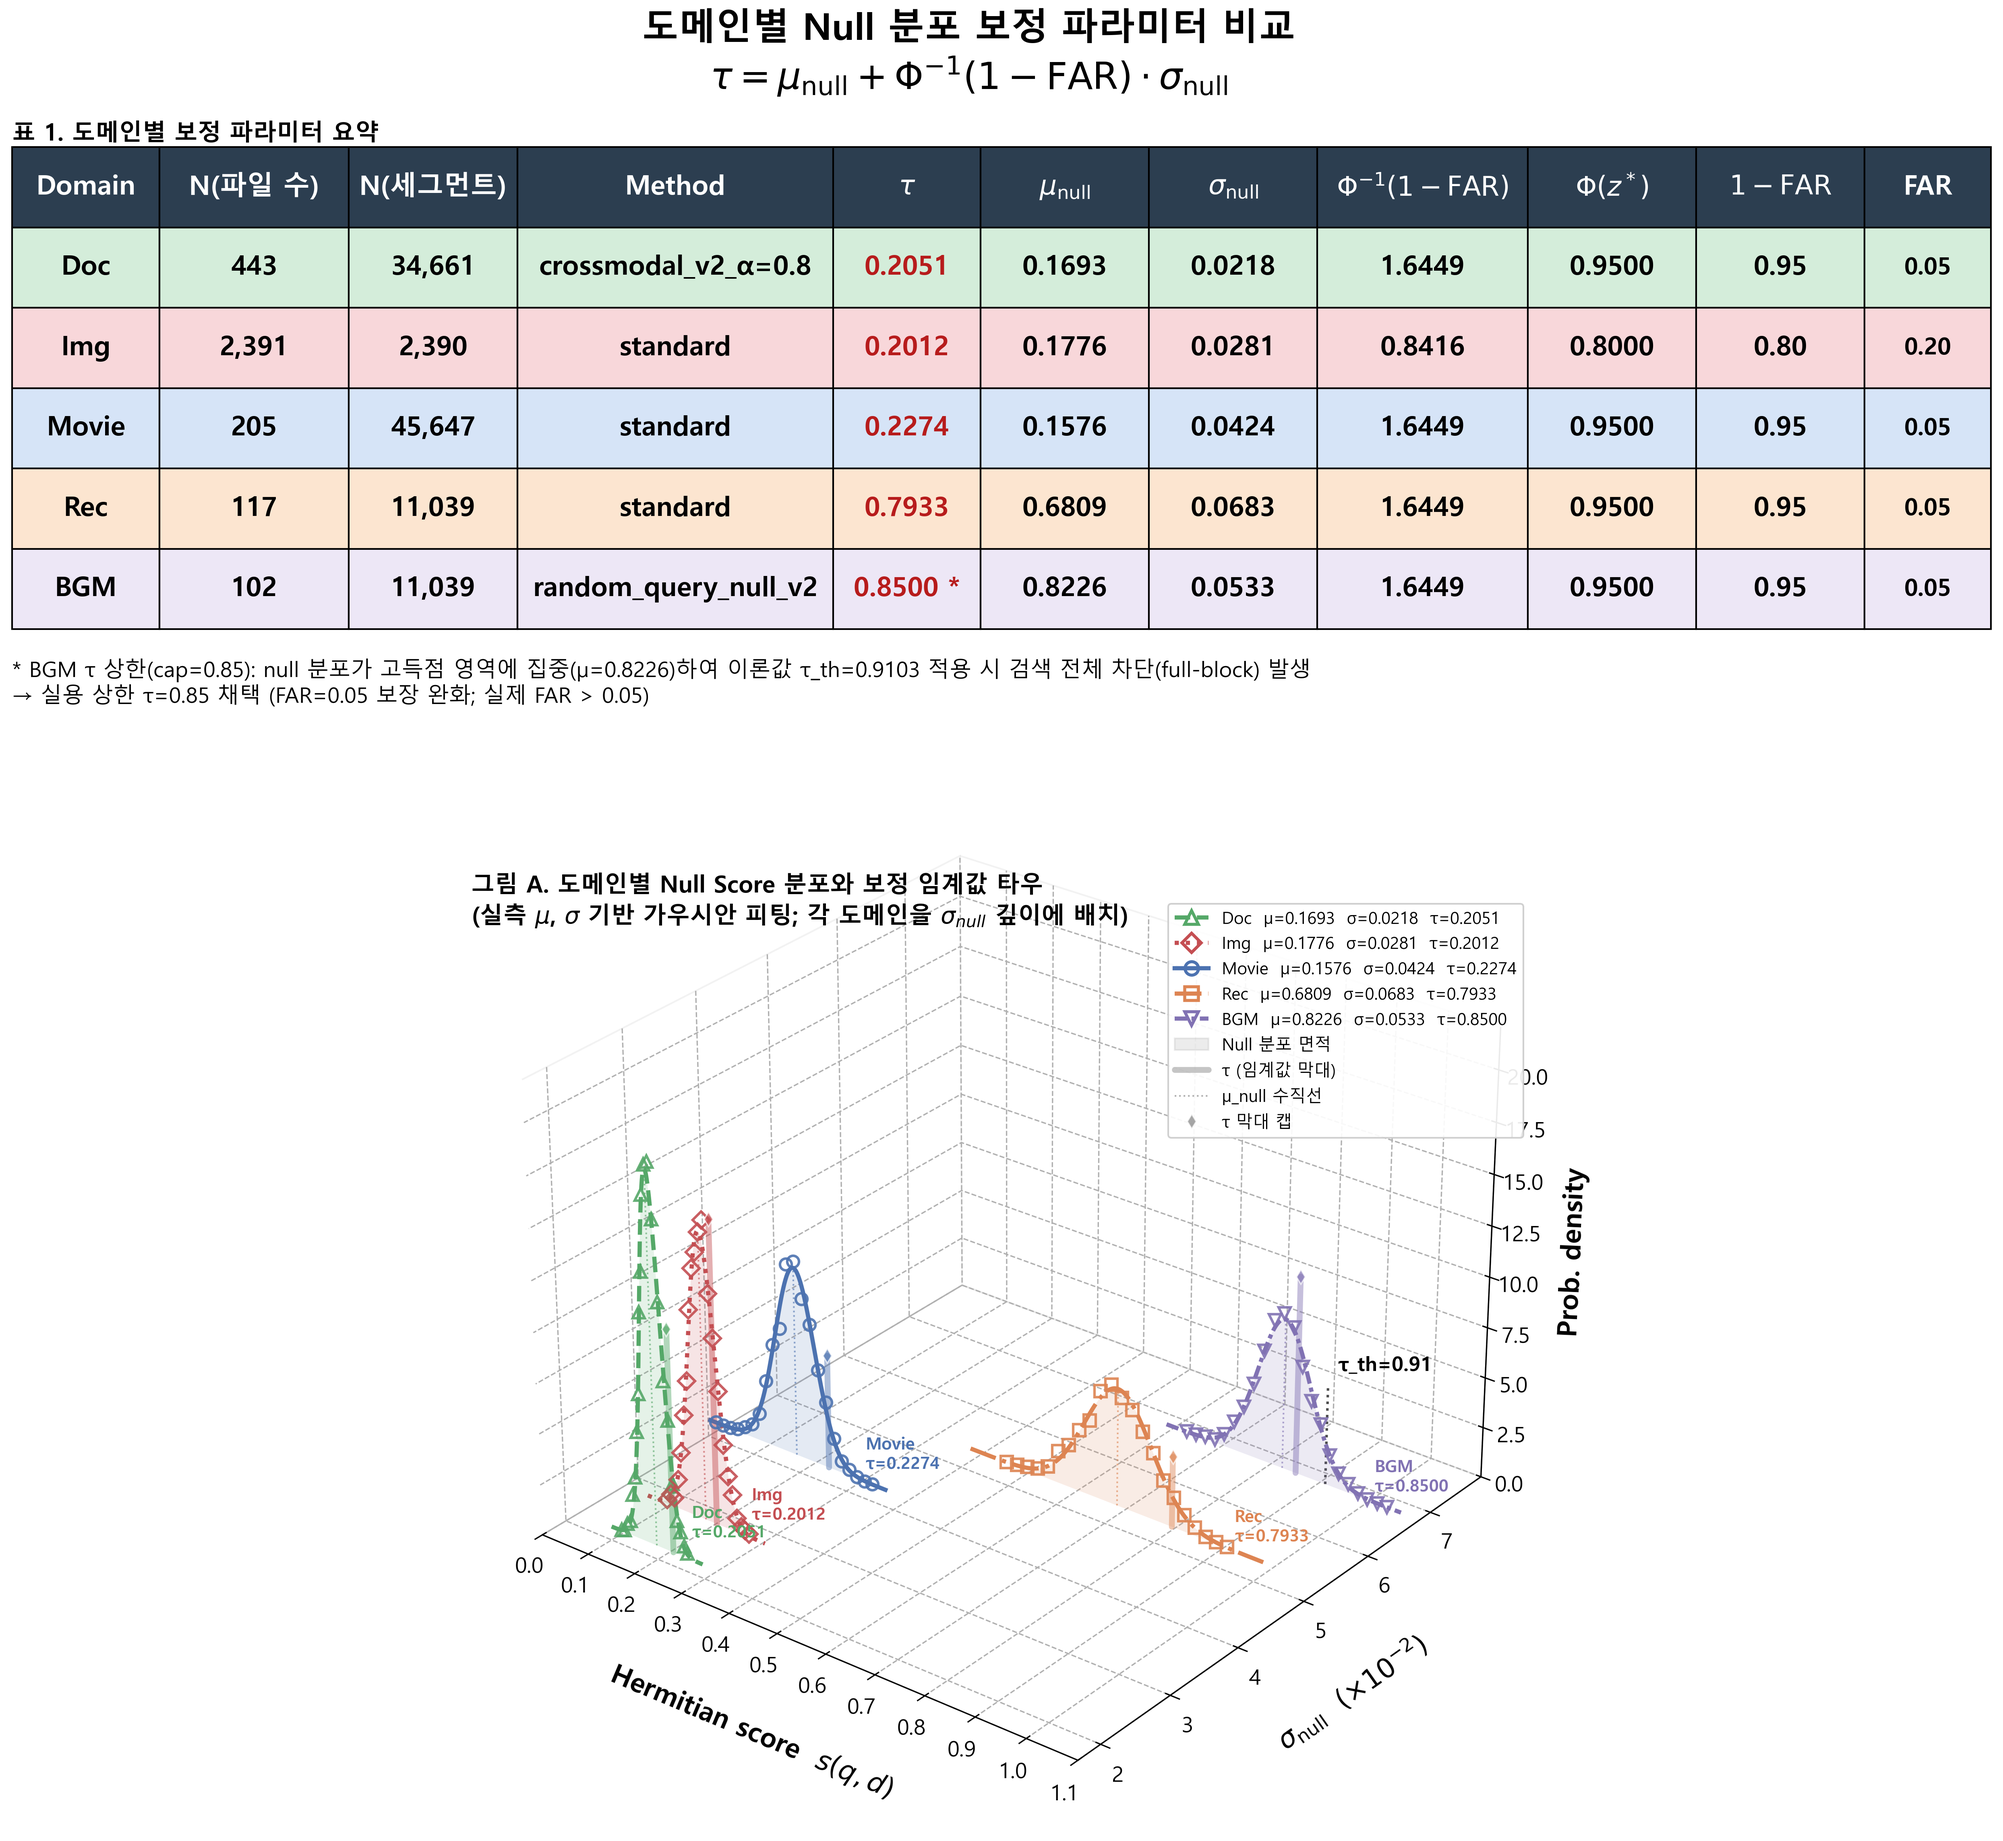
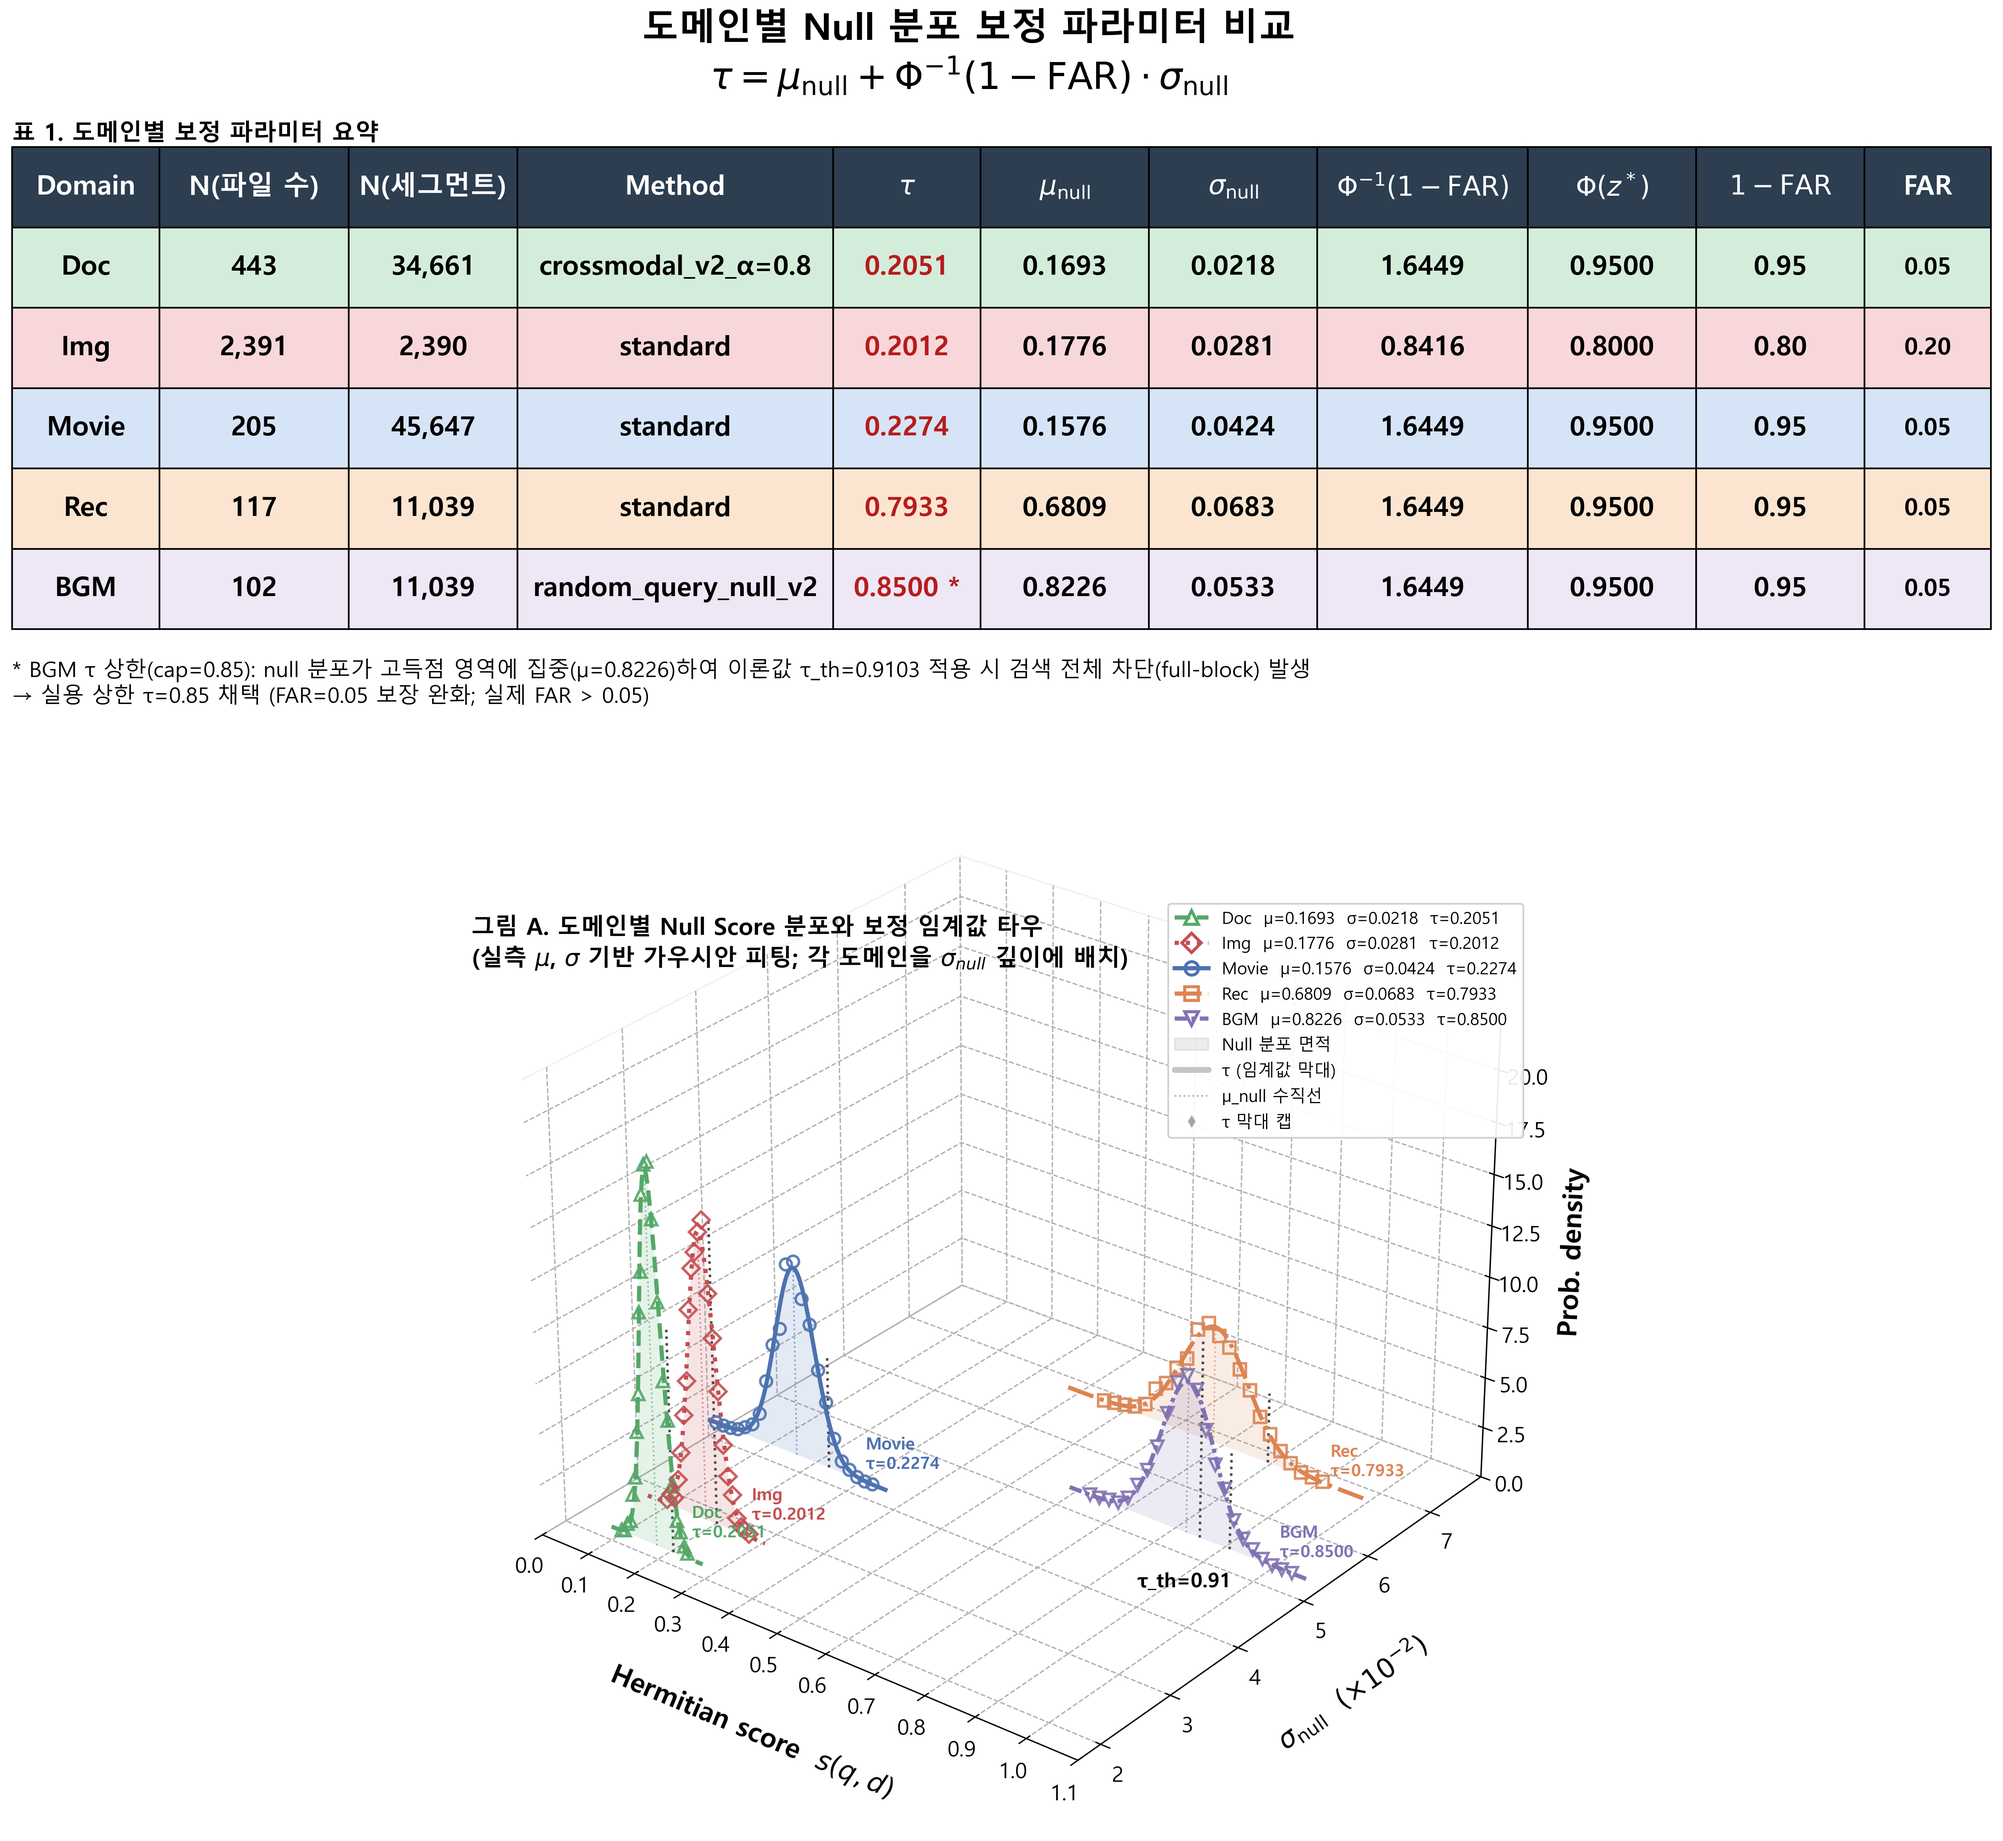
동영상 '코스모스 보이저호' 검색 기능 점검, fig11-1 그림 수정
Update search ranking weights and adjust visualization parameters in calibration figure

Changed region(s): [[0.4986, 0.6834, 0.7167, 0.8698], [0.2181, 0.466, 0.5609, 0.5281]]

diff --git a/App/backend/routes/search.py b/App/backend/routes/search.py
@@ -785,18 +785,30 @@ def search():
             return (0.4 * ds + 0.6 * rs_n,)
         if _variant == "H":
             return (0.7 * rs_n + 0.3 * ds,)
-        # A (default, v20): 옵션 1 — 정확도(rerank) 우선 + 파일명 매칭 보너스.
+        # A (default, v21): 도메인별 가중치 + 파일명 매칭 보너스.
         # 정책:
-        #   primary = 0.35·유사도 + 0.55·정확도 + 0.10·신뢰도 + 파일명_보너스(0~0.20)
-        # 변경 사유 (v19 → v20):
-        #   "박스 속에 있는 고양이" 등 의미적 컴포지션 쿼리에서, 유사도(dense)가 91~92%로
-        #   포화돼 단순 "고양이" 이미지와 "박스 속 고양이"가 구별되지 않음. 반면 reranker는
-        #   박스 유무를 23~84% 차로 명확히 구분 → rerank 가중치를 0.25→0.55, 유사도를
-        #   0.65→0.35로 재배분하여 의미 정렬 품질 우선.
-        # 파일명 보너스:
-        #   - 쿼리 토큰이 file_name에 포함되면 0.10 ~ 0.20 가산
-        #   - "박태웅 의장" 검색 시 파일명에 "박태웅 의장" 포함 파일이 STT 점수가 낮아도 #1 진입
-        primary = 0.35 * ds + 0.55 * rs_n + 0.10 * cf + fn_bonus
+        #   - Image / Doc:  primary = 0.35·유사도 + 0.55·정확도 + 0.10·신뢰도 + 파일명_보너스
+        #     → "박스 속 고양이" 등 의미 컴포지션 쿼리에서 rerank가 박스 유무를 명확히 구분.
+        #   - Video / Audio: primary = 0.65·유사도 + 0.25·정확도 + 0.10·신뢰도 + 파일명_보너스
+        #     → AV 캡션·STT는 짧고 단편적이라 rerank가 단일 키워드에 편향됨.
+        #       "코스모스 보이저호" 같은 다중 키워드 쿼리는 dense(E5+BGE-M3)가
+        #       의미 결합을 더 안정적으로 잡음. v19 가중치 유지가 회귀 방지에 효과적.
+        # 변경 이력:
+        #   v19 → v20: 전 도메인 rerank 우선 (이미지 의미 쿼리 개선, 그러나 AV 다중키워드 회귀)
+        #   v20 → v21: 도메인 분기로 양쪽 모두 최적화
+        ft = (r.get("file_type") or "").lower()
+        if ft in ("video", "audio"):
+            # AV: 유사도 우선 (v19 환원)
+            primary = 0.65 * ds + 0.25 * rs_n + 0.10 * cf + fn_bonus
+        else:
+            # Image / Doc / 기타: 정확도 우선 (v20 유지)
+            primary = 0.35 * ds + 0.55 * rs_n + 0.10 * cf + fn_bonus
+            # [v22] 이미지 도메인 dense floor — 시각 유사도가 매우 낮은데 rerank만 높은
+            # 결과를 방어. "햄버거" 쿼리에서 미트볼·팬케익·와플 등이 캡션의 "맛있는 음식"
+            # 일반화로 rerank 점수만 높아져 상위 진입하는 문제 방지.
+            # 임계 0.25 미만 → 시각적으로 햄버거와 거의 무관한 사진 → primary 절반 감점.
+            if ft == "image" and ds < 0.25:
+                primary *= 0.55
         return (primary, ds, rs)
 
     results.sort(key=_sort_key, reverse=True)

diff --git a/Figures/v2/fig11_1_calibration_domain_compare.py b/Figures/v2/fig11_1_calibration_domain_compare.py
@@ -252,7 +252,7 @@ ax_3d.set_xlabel("\nHermitian score  $s(q,d)$", fontsize=16, fontweight="bold", 
 ax_3d.set_ylabel("\n$\\sigma_{\\mathrm{null}}$  $(\\times 10^{-2})$", fontsize=16, fontweight="bold", labelpad=12)
 ax_3d.set_zlabel("Prob. density", fontsize=16, fontweight="bold", labelpad=8)
 ax_3d.text2D(
-    0.0, 0.90,
+    0.0, 0.86,
     "그림 A. 도메인별 Null Score 분포와 보정 임계값 타우\n"
     "(실측 $\\mu$, $\\sigma$ 기반 가우시안 피팅; 각 도메인을 $\\sigma_{null}$ 깊이에 배치)",
     transform=ax_3d.transAxes,
@@ -267,18 +267,12 @@ sigma_values = [CAL[d]["sigma"] * 100 for d in CALIBRATED]  # ×10⁻² 단위
 
 legend_handles = []
 
-# Rec ↔ BGM Y축(σ_null 깊이) 위치 교환
-Y_POS_SWAP = {
-    "Rec": CAL["BGM"]["sigma"] * 100,
-    "BGM": CAL["Rec"]["sigma"] * 100,
-}
-
 for d in CALIBRATED:
     c   = CAL[d]
     col = FIG11_COLORS[d]
     marker = DOMAIN_MARKERS[d]
     ls  = DOMAIN_LSTYLES[d]
-    y_pos = Y_POS_SWAP.get(d, c["sigma"] * 100)  # σ_null ×10⁻² 단위
+    y_pos = c["sigma"] * 100  # σ_null ×10⁻² 단위 (자연 위치)
 
     # 가우시안 곡선 데이터
     x = np.linspace(c["mu"] - 4.5 * c["sigma"], c["mu"] + 4.5 * c["sigma"], 300)
@@ -318,19 +312,14 @@ for d in CALIBRATED:
     # 막대 본체: 바닥(z=0) → τ 위치의 밀도 높이
     bar_height = max(z_peak * 0.6, z_at_tau * 1.5)  # 시각적으로 충분한 높이
     ax_3d.plot([c["tau"], c["tau"]], [y_pos, y_pos], [0, bar_height],
-               color=col, lw=3.5, alpha=0.45, solid_capstyle="round", zorder=4)
-    # 막대 상단 마름모 캡
-    ax_3d.plot([c["tau"]], [y_pos], [bar_height],
-               marker="d", color=col, ms=6,
-               markerfacecolor=col, markeredgecolor="white",
-               markeredgewidth=0.8, alpha=0.7, zorder=6)
+               color="black", lw=1.5, ls=":", alpha=0.7, zorder=4)
 
     # ── τ 이론값 점선 (capped 도메인만) ──
     if c.get("capped") and "tau_theoretical" in c:
         tau_th = c["tau_theoretical"]
         ax_3d.plot([tau_th, tau_th], [y_pos, y_pos], [0, bar_height * 0.5],
                    color="black", lw=1.5, ls=":", alpha=0.7, zorder=3)
-        ax_3d.text(tau_th, y_pos + 0.15, bar_height * 0.55,
+        ax_3d.text(0.9, 4.0, 1,
                    f"τ_th={tau_th:.2f}", fontsize=12, color="black",
                    fontweight="bold", ha="left")
 
